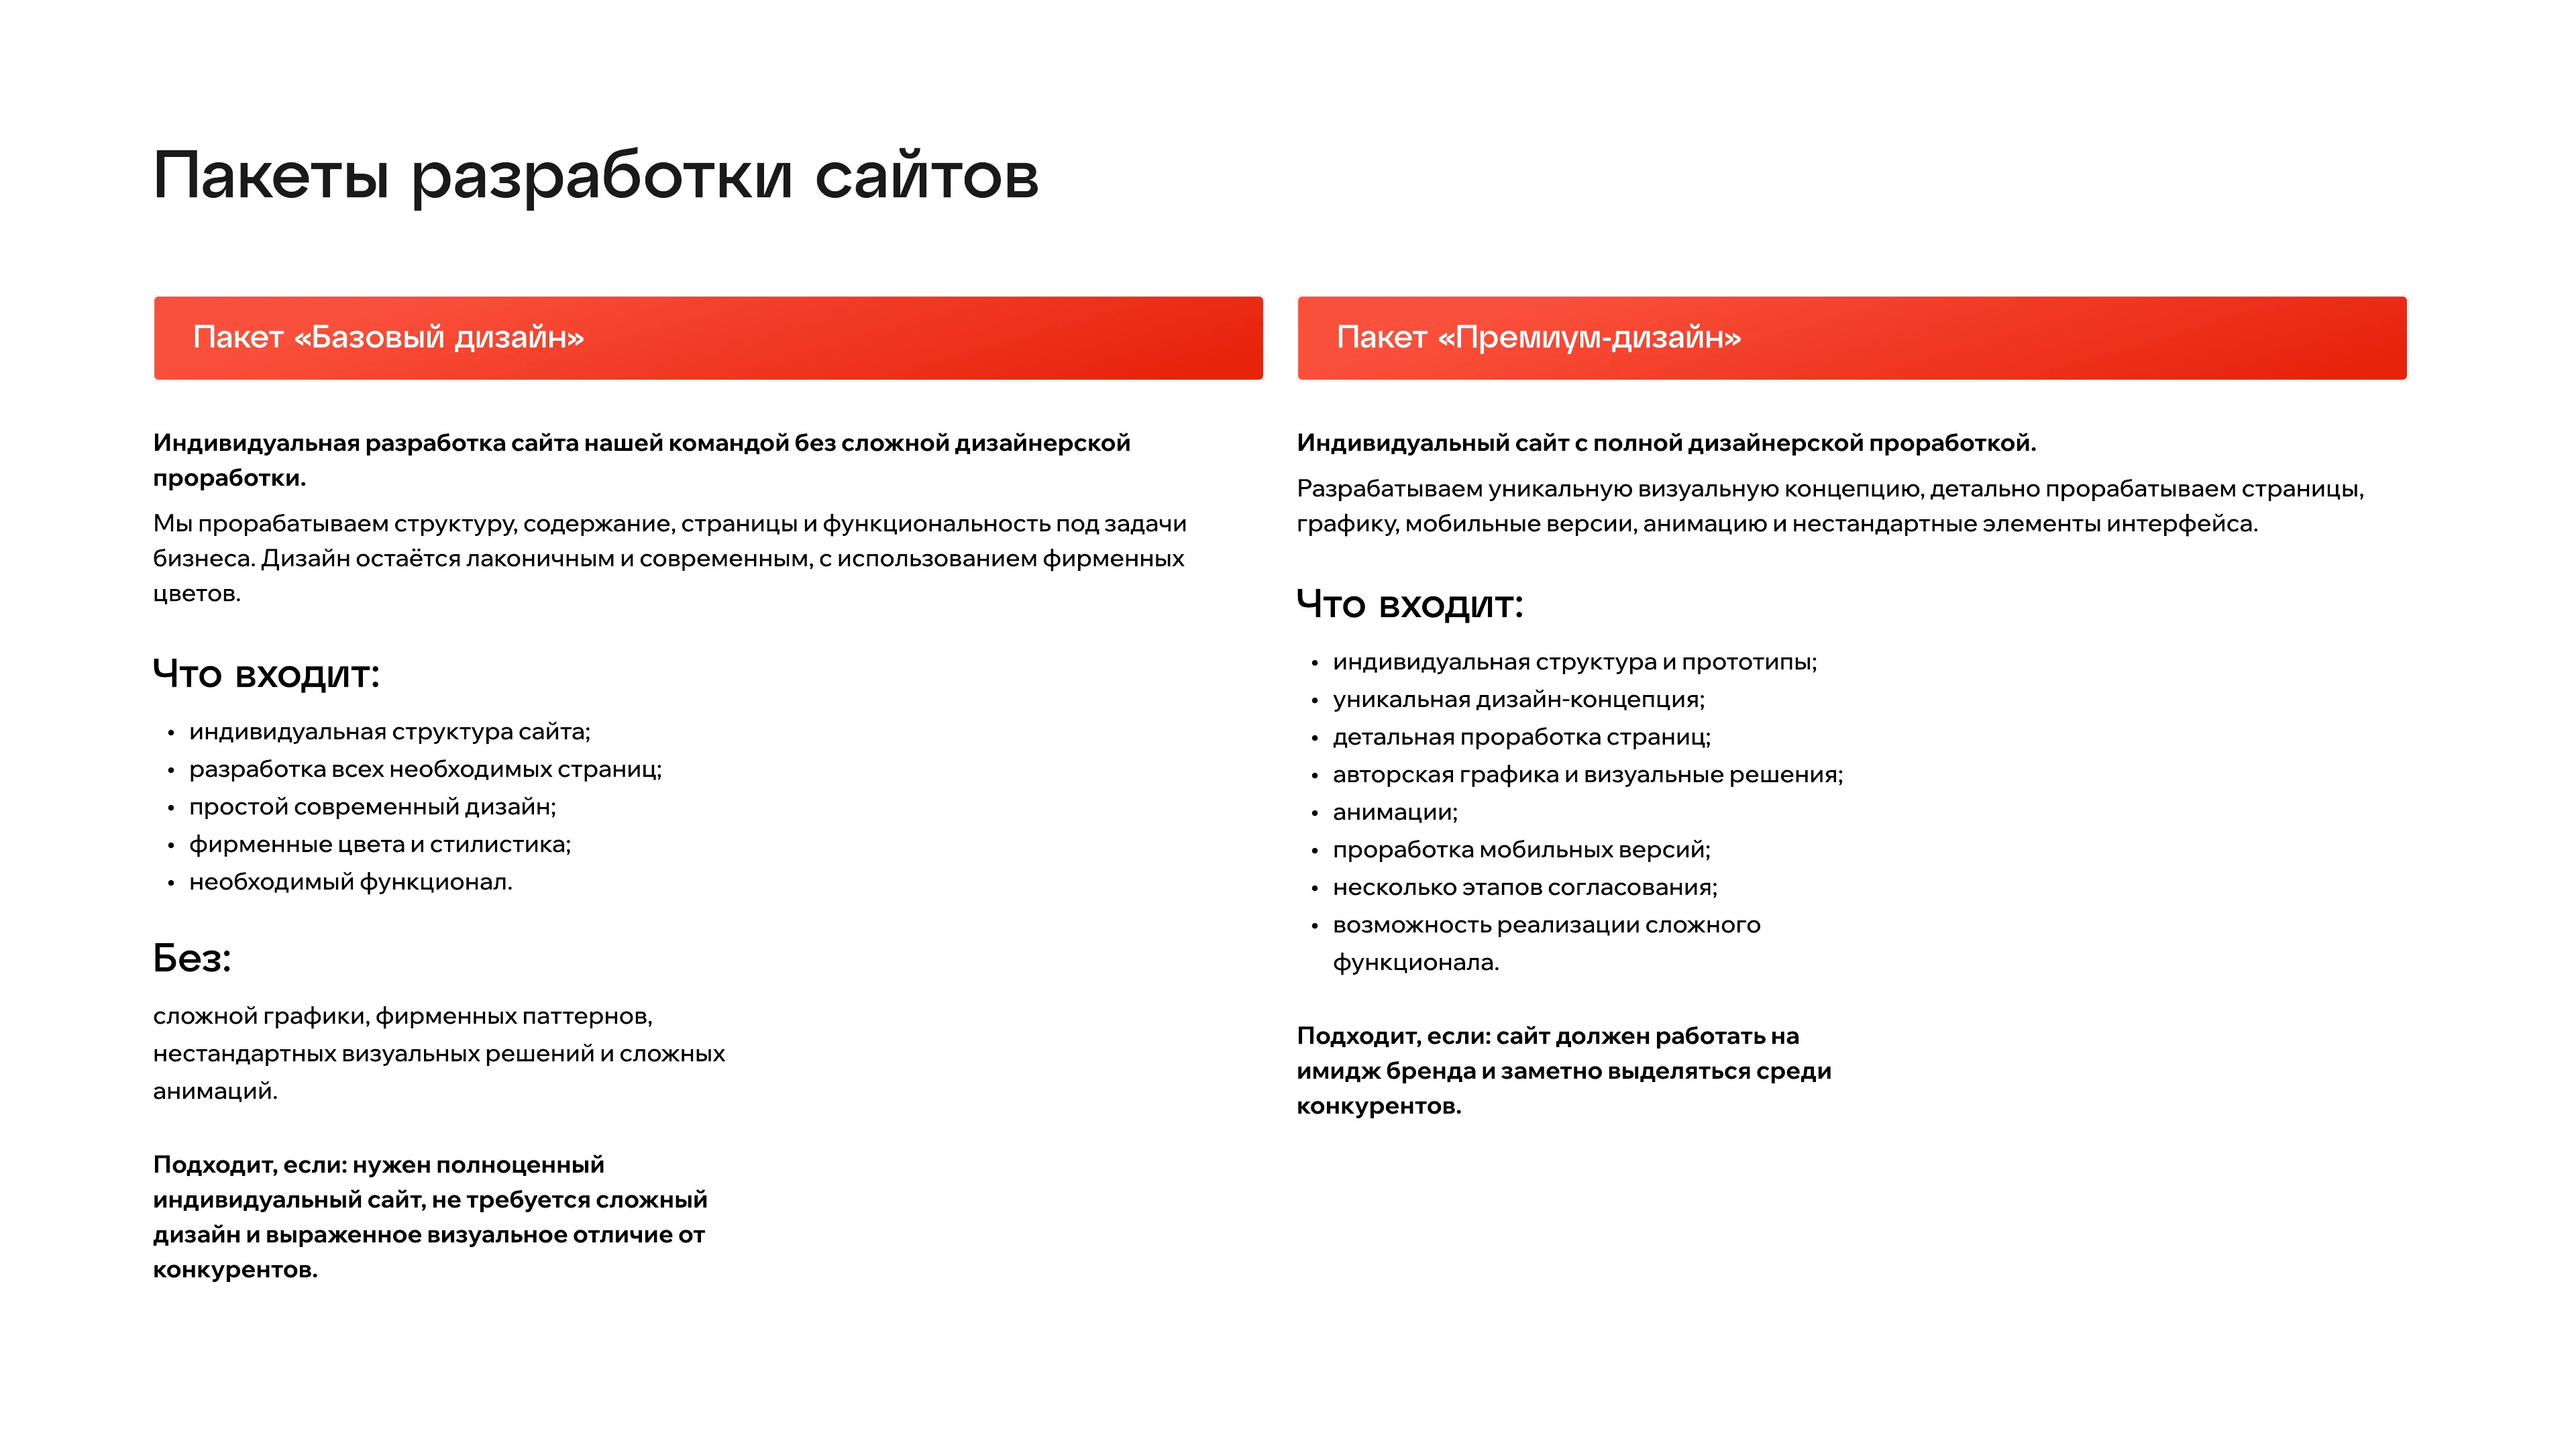
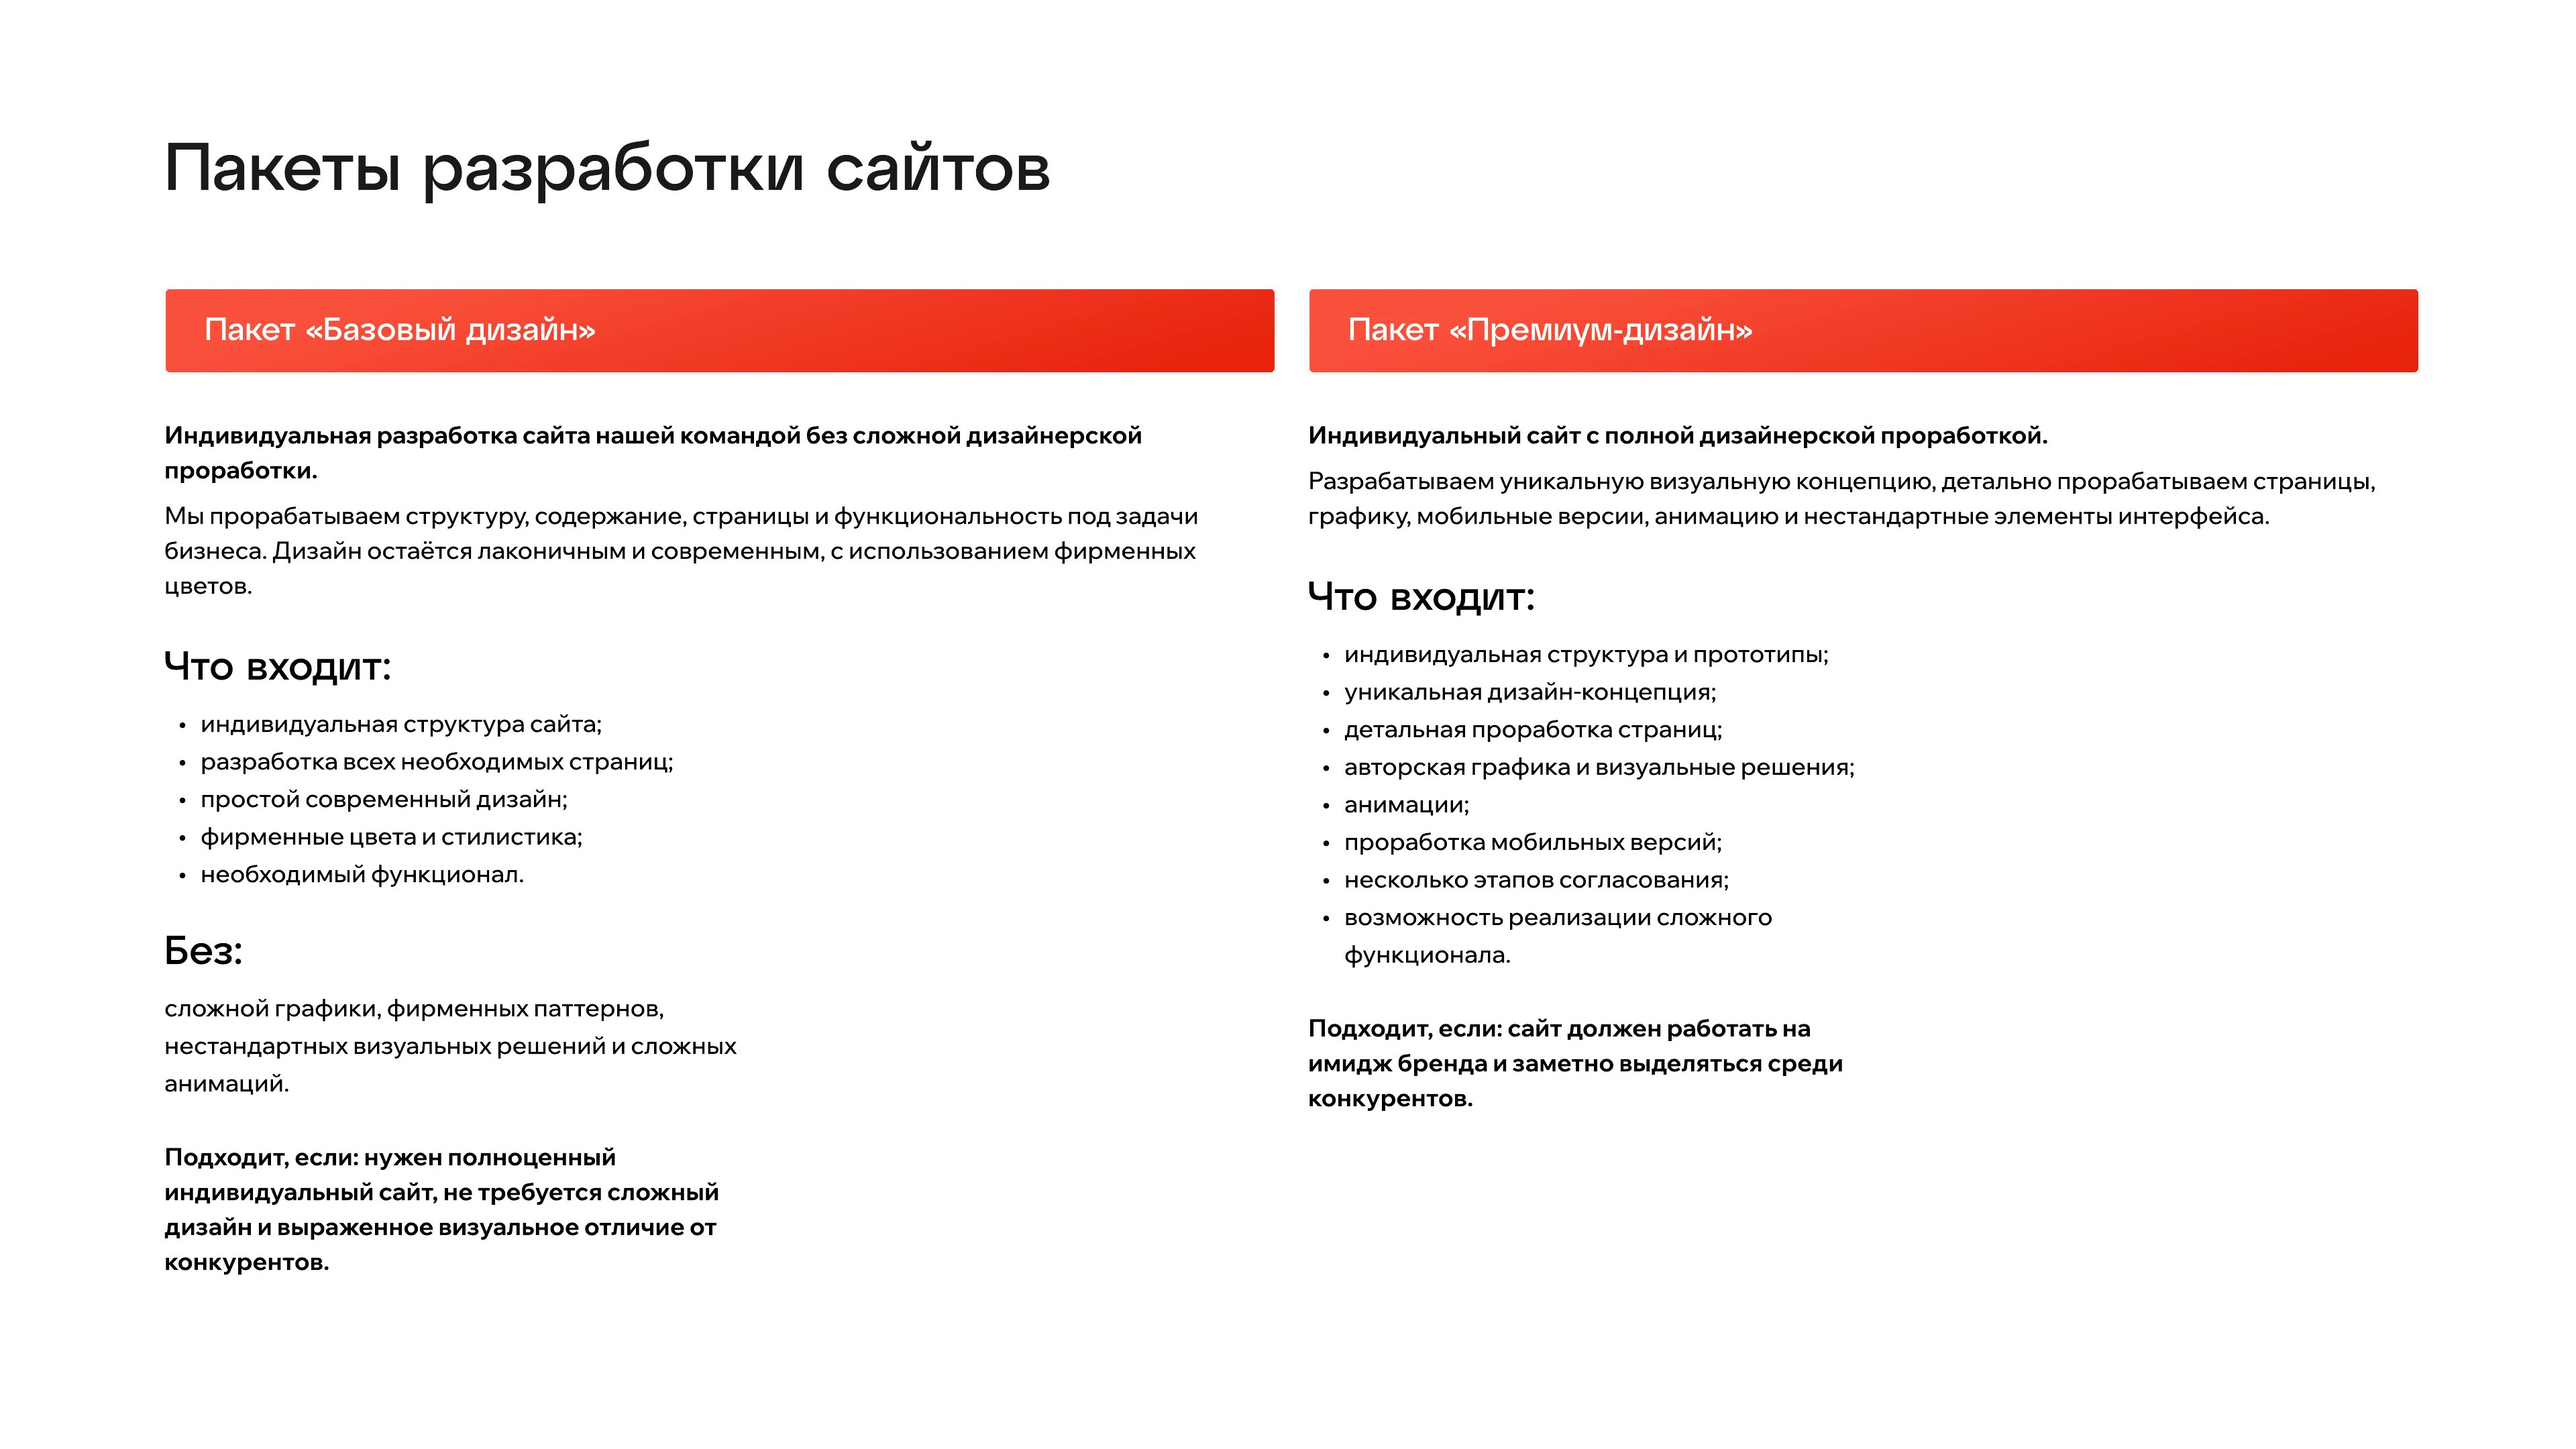
Packages slide: content on the same margins as the other slides
Claude-Session: https://claude.ai/code/session_013FZG4zTiAzb4UWVapEGvyb

diff --git a/index.html b/index.html
@@ -6,15 +6,15 @@
 <title>КП · админка</title>
 <link rel="preconnect" href="https://fonts.googleapis.com">
 <link href="https://fonts.googleapis.com/css2?family=Onest:wght@400;500;600&display=swap" rel="stylesheet">
-<link rel="stylesheet" href="css/app.css?v=20261013h">
-<link rel="stylesheet" href="css/slides.css?v=20261013h">
+<link rel="stylesheet" href="css/app.css?v=20261013i">
+<link rel="stylesheet" href="css/slides.css?v=20261013i">
 </head>
 <body>
 <div id="app"></div>
-<script src="js/slides.js?v=20261013h"></script>
-<script src="js/seed.js?v=20261013h"></script>
-<script src="js/store.js?v=20261013h"></script>
-<script src="js/sheets.js?v=20261013h"></script>
-<script src="js/app.js?v=20261013h"></script>
+<script src="js/slides.js?v=20261013i"></script>
+<script src="js/seed.js?v=20261013i"></script>
+<script src="js/store.js?v=20261013i"></script>
+<script src="js/sheets.js?v=20261013i"></script>
+<script src="js/app.js?v=20261013i"></script>
 </body>
 </html>

diff --git a/js/slides.js b/js/slides.js
@@ -242,7 +242,7 @@
 
   const RENDER = { cover: renderCover, static: renderStatic, compare: renderCompare, payment: renderPayment, estimate: renderEstimate, extras: renderExtras };
   // версия картинок: меняйте при обновлении файлов в assets/, чтобы браузер не брал старые из кэша
-  const ASSET_V = '20261013h';
+  const ASSET_V = '20261013i';
   const renderItem = (it) => (RENDER[it.kind] ? RENDER[it.kind](it) : '').replace(/assets\/([\w.-]+\.(?:webp|png|jpg|svg))/g, `assets/$1?v=${ASSET_V}`);
 
   Object.assign(KP, { termText, TYPES, STATIC, PROFILES, expand, renderItem, esc, lines, uid, num, rub, grp, tariffTotal, tariffHours, tariffRows, tariffMonths, lineCost, plural, normTariffName, profileFor, dateRu, DEFAULT_RULES, autoMonths });
